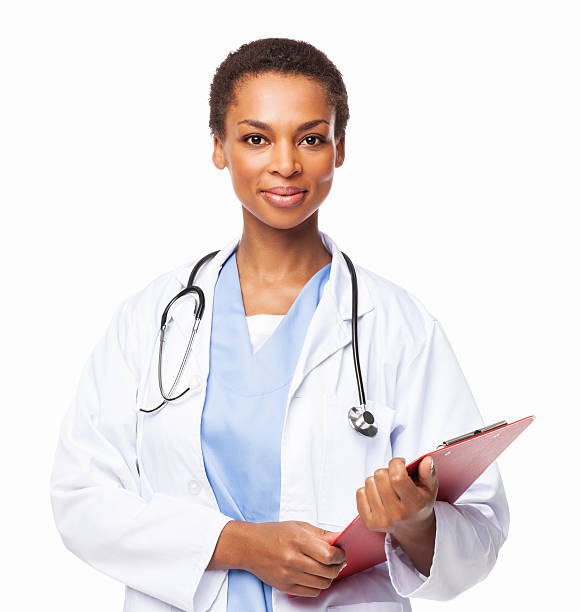
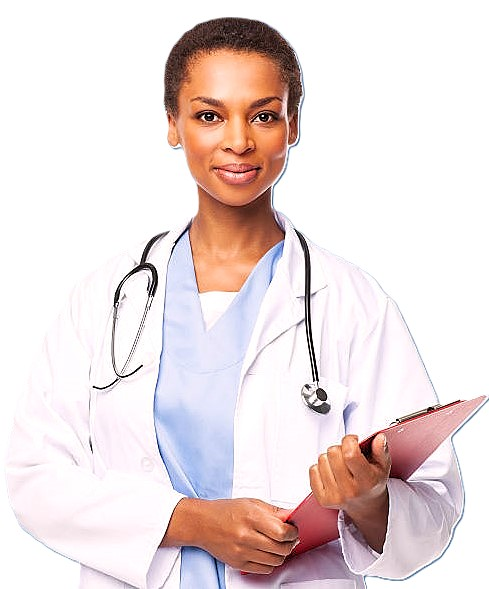
task

diff --git a/landing.html b/landing.html
@@ -23,16 +23,18 @@
                 <li><a href="#About">About Page</a></li>
                 <li><a href="home.html">Home Page</a></li> 
                 <li><a href="#purpose">Purpose</a></li>
-                <form action="/search"  method="get"> 
-                    <input type="text" placeholder="search health topics..." name="query" required>
+                <form action="https://www.cdc.gov/diabetes/index.html"  
+                method="get"> 
+                    <input type="text" placeholder="search diabetes topics..." name="query" required>
                     <button type="submit" class="but">Search</button>
                 </form>
             </ul>
         </nav>
     </header>
-    <article>
             <aside class="doc">
-               <img src="./d3.jpeg" alt="doctor">
+            <div class="image-container">
+              <img src="./d3.jpeg" alt="doctor"> 
+            </div>
             </aside>
         <section class="section1">
         <bold><h1>DIABETES ENLIGHTMENT OF THE PUBLIC</h1></bold>
@@ -68,10 +70,8 @@
         </div>
         </div>
 
-        </section>
-    </article>
+    </section>
     <footer>
-
     </footer>
 </body>
 </html>

diff --git a/style.css b/style.css
@@ -4,7 +4,6 @@
     padding: 0;
 }
 .head{
-    
     padding:1rem;
     display: flex;
     align-items: center;
@@ -18,13 +17,12 @@
 }
 .heading{
     display: flex;
-    gap: 1rem;
+    gap: 1rem; 
     padding: 10px;
     align-items: center;
 }
 .doc{
-    background-color:lightblue;
-
+    background-color:aquamarine;
 }
 .but{
     border-radius: 5px;
@@ -33,6 +31,12 @@
     height: 30px;
     background-color: blueviolet;
     color: azure;
+}
+.but{
+    transition: background-color 0.3s;
+}
+.but:hover{
+    background-color: darkmagenta;
 }
 .navy ul{
     list-style-type: none;
@@ -57,15 +61,21 @@
 .page{
     text-align: center;
     align-items: center;
+    margin: 10px;
 }
 .container{
     display: flex;
     gap: 1rem;
     padding: 10px;
     border-radius: 10px;
+    flex-direction: row;
+    position: absolute;
+    bottom: 0;
+    left: 0;
 }
+
 footer{
-    padding: 60px;
+    margin: 20px;
 }
  .logo{
  color:blueviolet;
@@ -81,6 +91,7 @@ footer{
 }
 .section2{
     height: 50px;
+    padding-bottom: 20px;
 }
 aside{
     float: right;
@@ -88,4 +99,5 @@ aside{
 }
 aside img {
     height: auto;
+    width: 100%;
 }
